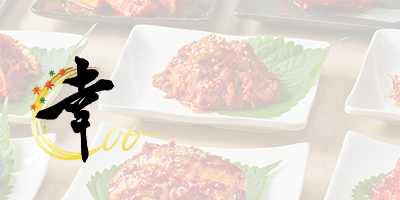
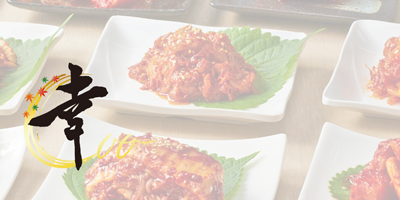
Add files via upload

diff --git a/associated.html b/associated.html
@@ -71,16 +71,16 @@
           <img src="img/brand1.png" alt="すごい特徴のイメージ">
         </div>
         <div class="desc">
-          <h2>アロマ販売</h2>
-          <p>アロマを販売しています。アロマを販売しています。アロマを販売しています。アロマを販売しています。</p>
+          <h2>キムチ等の通信販売・店頭販売</h2>
+          <p>キムチを販売しています。キムチを販売しています。キムチを販売しています。キムチを販売しています。</p>
         </div>
       </section>
       <section>
         <div class="pic">
-          <img src="img/brand1.png" alt="すごい特徴のイメージ">
+          <img src="img/brand2.png" alt="すごい特徴のイメージ">
         </div>
         <div class="desc">
-          <h2>アロマ販売</h2>
+          <h2>アロマ・リンパリラクゼーションサービス</h2>
           <p>アロマを販売しています。アロマを販売しています。アロマを販売しています。アロマを販売しています。</p>
         </div>
       </section>
